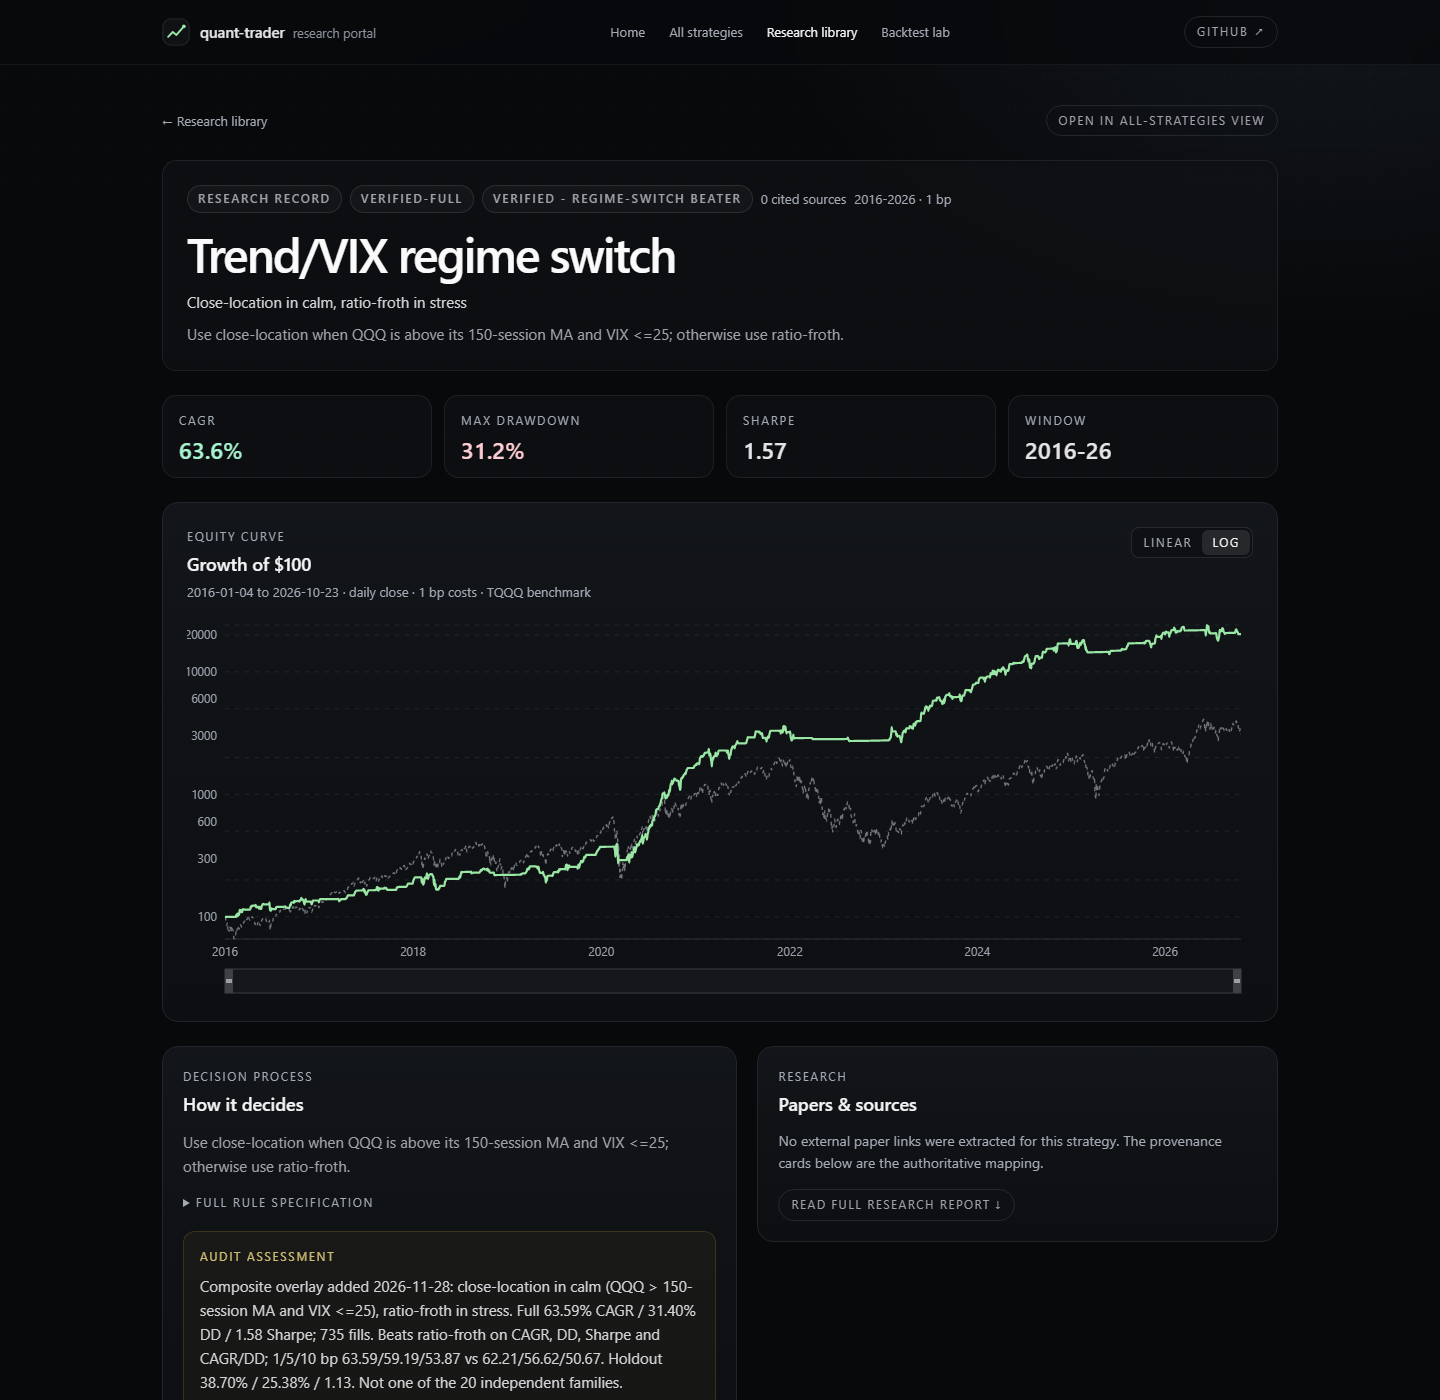
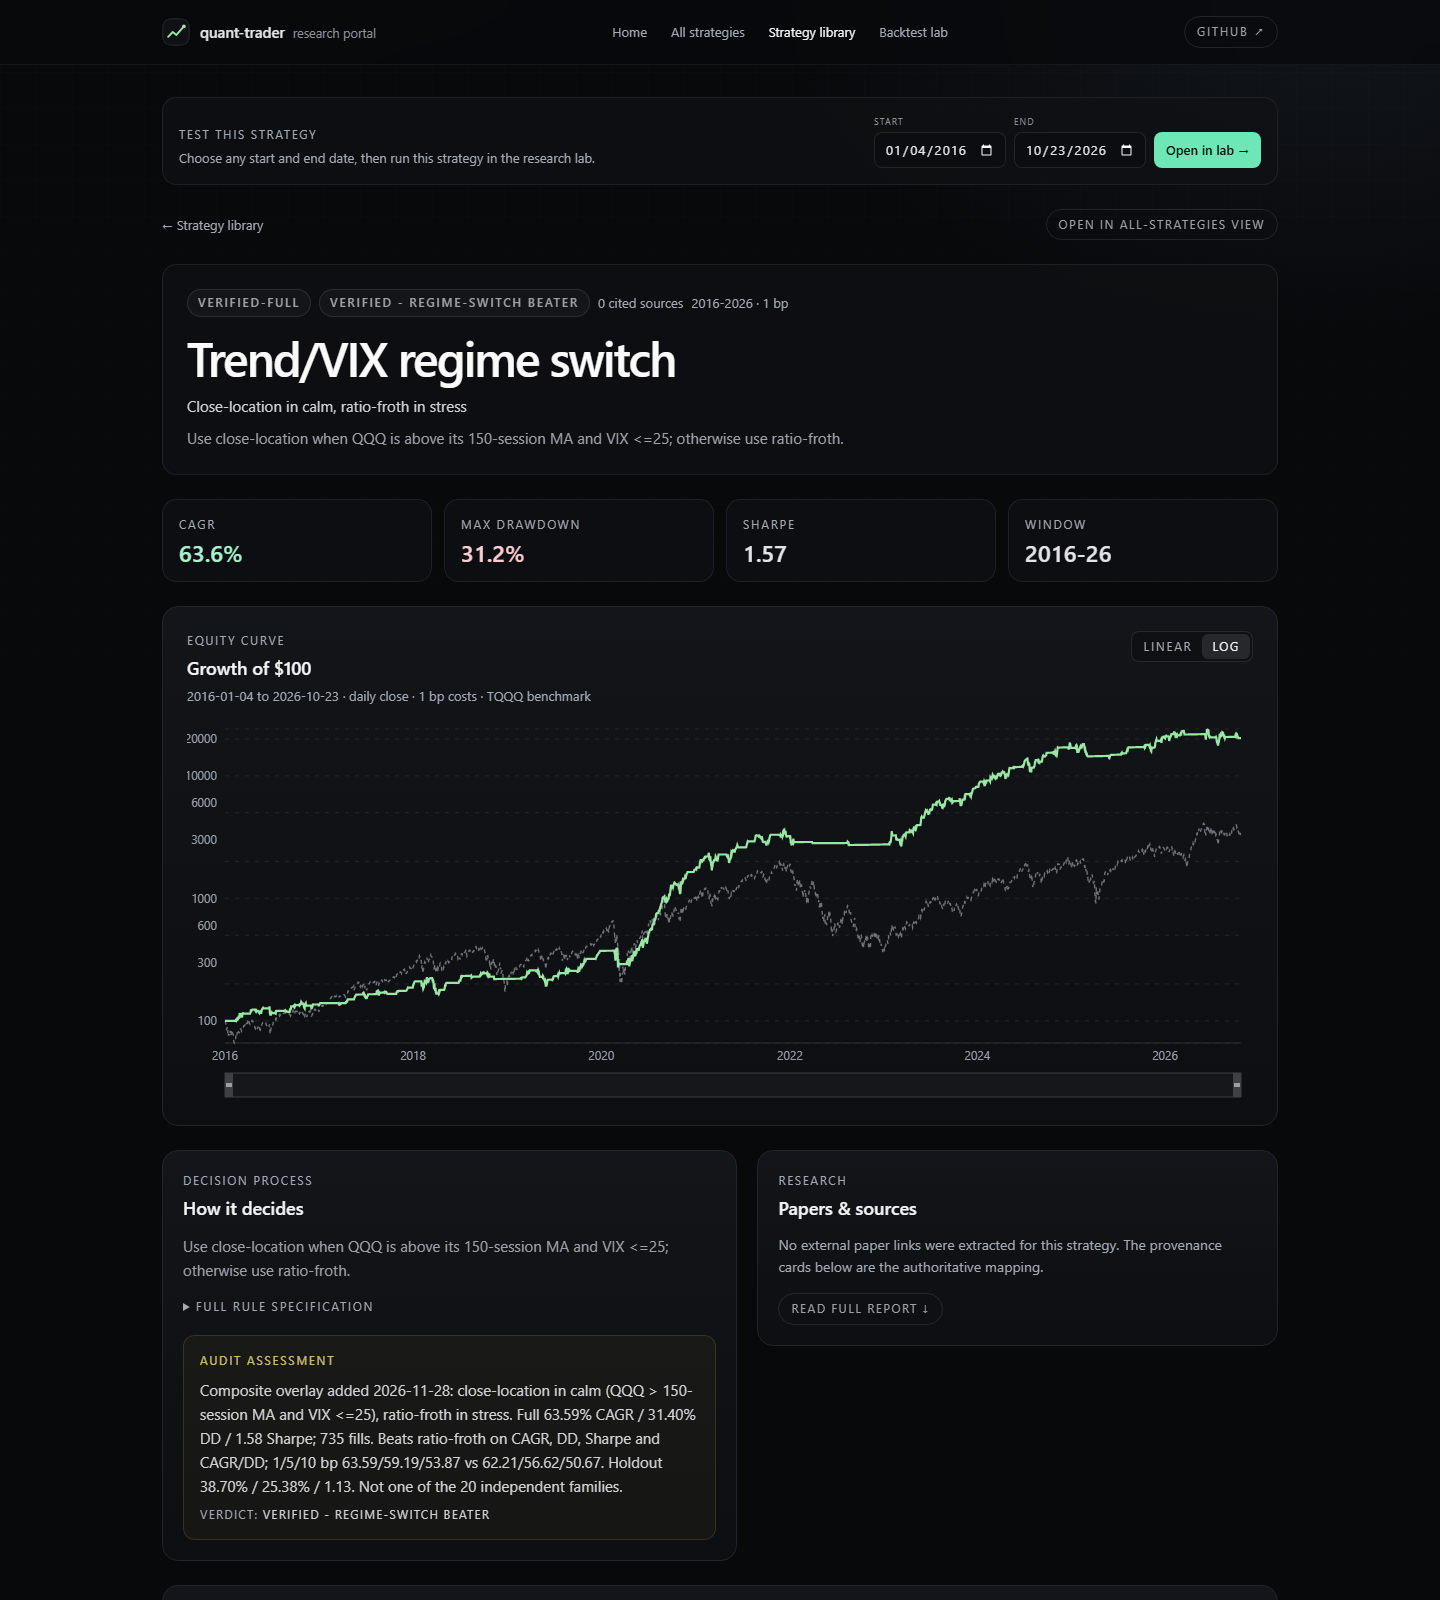
Clean up README: remove new-family programme, fix methodology and screenshots
Drop the new-family/overlap/Jaccard sections, correct the headline metrics and winner policy, describe the research-only lab and strategy pages, add the parameter-schema export step, and refresh the research/lab/detail screenshots.

diff --git a/README.md b/README.md
@@ -6,36 +6,32 @@ exposure. The tradable universe is **QQQ**, **TQQQ** (3x daily Nasdaq-100), and
 
 The repository has two layers:
 
-- **Paper-trading engine** — Rust execution/backtest engine, TOML configs, and
-  a Next.js dashboard.
-- **Research library** — Python research on 1-minute QQQ/TQQQ/BIL data,
-  cross-asset daily signals, frozen development windows, one-shot holdouts,
-  and overlap audits.
+- **Paper-trading engine** — Rust execution/backtest engine and TOML strategy
+  configs.
+- **Research library** — Python strategies, one-shot holdouts, and the Next.js
+  research portal.
 
 ## Current status
 
 | Item | Value |
 |---|---:|
-| Visible strategies | **46** |
+| Visible research strategies | **46** |
 | Curves on the compare page | **48** |
 | Above-TQQQ winners | **14** |
-| New independent families | **20** |
-| Max new-family Jaccard vs existing winners | **0.66** |
-| Max new-family raw correlation | **0.693** |
 
 ### Headline results (full 2016-01-04 .. 2026-10-23, daily close, 1 bp)
 
 | Strategy | CAGR | Max DD | Sharpe |
 |---|---:|---:|---:|
-| `family-regime-switch` (composite overlay) | **63.59%** | **31.40%** | **1.58** |
+| `family-regime-switch` (composite overlay) | **63.59%** | **31.22%** | **1.57** |
 | `ratio-froth` (original trend/vol winner) | 62.21% | 36.65% | 1.43 |
 | `fomc-opex-window` | 52.77% | 40.64% | 1.28 |
 | `vol-scaled-crash-stop` | 51.32% | 37.88% | 1.26 |
-| `family-short-reversal` | 49.54% | 66.46% | 0.98 |
-| `family-crypto-risk-appetite` | 46.50% | 52.33% | 1.19 |
-| `family-change-point` | 45.29% | 54.10% | 1.13 |
-| `family-hurst-persistence` | 43.00% | 56.25% | 1.04 |
-| `family-rates-volatility` | 38.80% | 43.01% | 1.05 |
+| `family-short-reversal` | 49.65% | 66.46% | 0.98 |
+| `family-crypto-risk-appetite` | 46.50% | 52.02% | 1.18 |
+| `family-change-point` | 45.29% | 54.10% | 1.14 |
+| `family-hurst-persistence` | 43.00% | 56.25% | 1.05 |
+| `family-rates-volatility` | 38.80% | 41.94% | 1.06 |
 
 `family-regime-switch` uses `family-close-location` when QQQ is above its
 150-session moving average and VIX ≤25, and `ratio-froth` otherwise. It beats
@@ -48,29 +44,8 @@ The repository has two layers:
 | 10 bp | **53.87%** | 50.67% |
 
 The 2024-2026 holdout is **38.70% CAGR / 25.38% DD / 1.13 Sharpe**. The overlay
-is a disclosed composite, not one of the 20 independent families. The raw-CAGR
-component, `family-close-location`, returns 66.23% but with a 62.76% drawdown;
-it is retained as the overlay's aggressive sleeve.
-
-## The 20 new families
-
-The new-family programme added 20 independent strategies with primary signals
-outside the original library: volume asymmetry, change-point detection, Hurst
-persistence, realized skew, sector rotation, breadth, crypto risk appetite,
-rates volatility, energy rotation, yen carry, homebuilder/financials/retail
-rotation, CBOE SKEW, EFA/SPY, QUAL/SPY, HYG/SPY, MTUM/SPY, breakeven inflation,
-sector dispersion, and gold-miner stress.
-
-Every addition has:
-
-- a full 2024-2026 holdout;
-- a `verified-full` record;
-- signal Jaccard ≤0.66 and raw correlation ≤0.693 against the nine original
-  winners.
-
-See `research/strategies/NEW_FAMILIES.md`,
-`research/strategies/FAMILY_OVERLAP_AUDIT.md`, and
-`research/strategies/OBJECTIVE_FEASIBILITY.md` for the ledger and audit.
+is a composite of two existing strategies. Its aggressive sleeve,
+`family-close-location`, returns 66.23% but with a 62.76% drawdown.
 
 ## Repository layout
 
@@ -118,12 +93,10 @@ npm run start
 pip install pandas numpy pyarrow
 python research/strategies/final_check.py
 python research/strategies/check_all_holdouts.py
-python research/strategies/family_overlap_audit.py
 ```
 
 `check_all_holdouts.py` verifies that every holdout partitions cleanly and
-matches its published curve. `family_overlap_audit.py` reruns the 20×9
-correlation/Jaccard/alpha audit.
+matches its published curve.
 
 ## Website
 
@@ -133,12 +106,12 @@ and Recharts. It has four main views:
 | View | Route | What it shows |
 |---|---|---|
 | **Home** | `/` | Hero, library counts, and strategy cards |
-| **All strategies** | `/compare` | One normalized growth chart, log/linear toggle, family filter, above-TQQQ/above-QQQ filters |
-| **Strategy library** | `/strategies` | Every strategy with a 2016-2026 record, as a card with CAGR, max drawdown and Sharpe |
-| **Backtest lab** | `/lab` | Strategy selector, adjustable settings, decision process, equity curve, custom-strategy entry |
+| **All strategies** | `/compare` | One normalized growth chart, manual start/end dates, log/linear toggle, family filter, above-TQQQ/above-QQQ filters |
+| **Strategy library** | `/strategies` | Every research strategy with a 2016-2026 record, as a card with CAGR, max drawdown and Sharpe |
+| **Backtest lab** | `/lab` | Strategy selector, manual start/end dates, Python parameters, equity and drawdown charts |
 
-Every strategy has one page at `/strategies/<slug>` (old `/research/...` links redirect) with metrics, the
-equity curve, the decision process, the audit assessment, and the code.
+Every research strategy has one page at `/strategies/<slug>` (old `/research/...` links redirect) with metrics, the
+equity curve, the decision process, the audit assessment, and the code. Strategies with a `bot.toml` are also traded by the paper-trading bot; their research page remains read-only.
 
 ### Screenshots
 
@@ -160,7 +133,7 @@ equity curve, the decision process, the audit assessment, and the code.
 
 **Backtest lab — select, inspect and rerun**
 
-<img src="docs/screenshots/lab.png" alt="Backtest lab: strategy selector, decision process and equity curve" width="900">
+<img src="docs/screenshots/lab.png" alt="Backtest lab: strategy selector, start/end dates, Python parameters and equity curve" width="900">
 
 ### Run the website
 
@@ -180,26 +153,27 @@ npm run start
 # http://localhost:3000
 ```
 
-The site reads precomputed JSON from `web/public/data/`. If you change the
-research library, regenerate it with:
+The library and compare pages read precomputed JSON from `web/public/data/`;
+the lab runs Python on demand. If you change the research library, regenerate
+the precomputed data with:
 
 ```bash
 python research/export_compare_full.py
 python research/export_research_rebuild.py
 python research/export_web_catalog.py
 python research/export_research_detail.py
+python research/export_param_schema.py
 ```
 
-The home page shows 47 cards, one per strategy. The 3 with a `bot.toml` are also
-traded by the Rust bot, so their page has the adjustable dashboard and the lab can
-re-run them with new settings. The compare page shows 48 curves: 46 strategies plus TQQQ and
-QQQ benchmarks.
+The home page shows 47 cards: 46 research strategies plus the S&P 500 bot preset.
+The compare page shows 48 curves: 46 research strategies plus TQQQ and QQQ
+benchmarks. The lab runs any research strategy over a custom start/end range.
 
 ## Data
 
 - The 1-minute QQQ/TQQQ/BIL panel lives under `data/` and is **not committed**
   (the directory is gitignored to keep the repository small).
-- Daily Yahoo cross-asset series used by the external families are committed
+- Daily Yahoo cross-asset series used by the cross-asset strategies are committed
   under `data/external/`. Provenance is in `data/external/SOURCE.md`; the fetch
   script is `research/fetch_external.py`.
 - Signals use daily closes through the prior session and fill at the next QQQ
@@ -211,11 +185,10 @@ QQQ benchmarks.
 - **Frozen development window:** 2016-01-04 .. 2023-12-29.
 - **One-shot holdout:** 2024-01-02 .. 2026-10-23; parameters are not tuned on it.
 - **Long-only:** weights are non-negative and sum to ≤1; no synthetic shorts.
-- **Overlap test:** signal Jaccard plus residual alpha, not raw correlation
-  alone. Raw correlation between two long-TQQQ strategies is dominated by
-  common TQQQ beta.
-- **Winner policy:** one verified above-TQQQ winner per family; ties break on
-  Sharpe, then lower drawdown.
+- **Execution:** signals use data through the prior session; targets fill at the
+  next QQQ open, with a 2% rebalance band and 1 bp headline cost.
+- **Winner policy:** one verified above-TQQQ winner per strategy category; ties
+  break on Sharpe, then lower drawdown.
 
 ## Caveats
 
@@ -224,6 +197,6 @@ QQQ benchmarks.
   The full and holdout results are the out-of-sample checks; both hold, but the
   selection bias is disclosed.
 - Turnover is high (about 35,000x for the overlay); the 10 bp CAGR is 53.87%.
-- Several new families are active but below the TQQQ bar (37.54% CAGR), and some
+- Several strategies are active but below the TQQQ bar (37.54% CAGR), and some
   have large drawdowns. They are research records, not recommendations.
 - Past performance does not guarantee future results.
